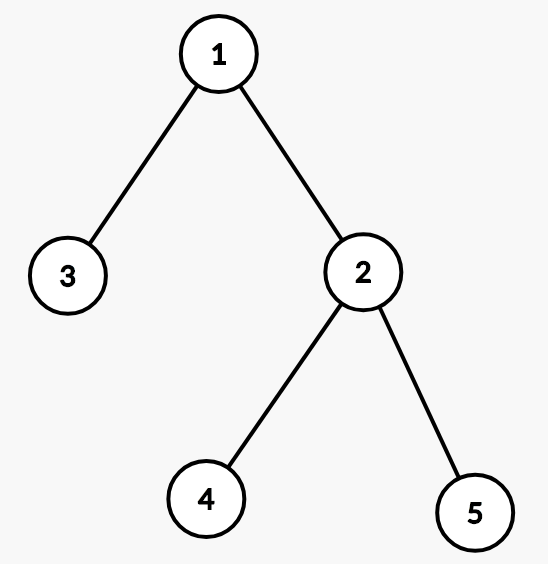
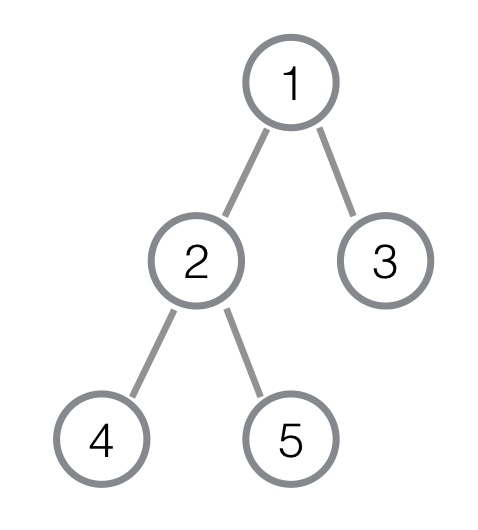
orzjry

diff --git a/day2/polygon/statement/zh-cn.md b/day2/polygon/statement/zh-cn.md
@@ -8,16 +8,16 @@
 
 首先，久莲给出了一棵 $n(n \geq 2)$ 个节点的有根树 $T$，根节点编号为 $1$。定义叶子节点为除了根以外所有度数恰好为 $1$ 的节点。下图是一个树 $T$ 的例子，其中叶子节点集合为 $\{3,4,5\}$。
 
-{{ img('1.png', size = 0.3, align = 'middle', inline = False) }}
+{{ img('1.png', size = 0.6, align = 'middle', inline = False) }}
 
 接着通过这棵树，久莲构造了一个序列 $A$:
 
 - 从根节点开始深度优先遍历整棵树，遍历时按照编号从小到大的顺序来访问孩子，这样可以得到一个树 $T$ 的 DFS 序。
 - 接着按照在 DFS 序中的出现顺序从前往后，久莲把所有叶子节点排成一排得到了一个序列 $A$。
 
-更进一步地，通过序列 $A$，久莲定义了两个叶子节点 $u,v$ 的距离 $d(u,v)$：假设 $u$ 在 $A$ 中是第 $i$ 个元素，$v$ 是第 $j$ 个元素，则 $d(u,v)=\min(|i-j|, |A|-|i-j|)$。其中 $|A|$ 为序列的长度，即 $T$ 的叶子个数。
+更进一步地，通过序列 $A$，久莲定义了两个叶子节点 $u,v$ 的距离 $d(u,v)$：假设 $u$ 在 $A$ 中是第 $i$ 个元素，$v$ 是第 $j$ 个元素，则 $d(u,v)=\min(|i-j|, |A|-|i-j|)$。其中 $|A|$ 为序列的长度，即 $T$ 的叶子个数，$i,j$ 指的是出现的位置，从 $1$ 开始计数。
 
-上面的例子中，序列 $A$ 为 $[3,4,5]$，其中 $d(3,5)=d(3,4)=d(4,5)=1$。
+上面的例子中，序列 $A$ 为 $[4,5,3]$，其中 $d(3,5)=d(3,4)=d(4,5)=1$，$3,4,5$ 的出现位置分别为 $3,1,2$。
 
 最后，久莲给出了一个参数 $K$，利用这棵有根树 $T$ 和序列$A$，我们可以构造一张 $n$ 个点的**无重边无自环**的无向图 $G$：两个不同的点 $u,v$ 之间有边当且仅当它们满足下列条件中的至少一个：
 
@@ -26,7 +26,7 @@
 
 当 $K = 1$ 或 $2$ 时，上面的例子得到的图 $G$ 都如下图所示：
 
-{{ img('2.png', size = 0.3, align = 'middle', inline = False) }}
+{{ img('2.png', size = 0.6, align = 'middle', inline = False) }}
 
 现在久莲想让你来计算一下 $G$ 中不同的哈密尔顿回路数量有多少条，答案可能很大，请对 $998244353$ 取模后输出。
 
@@ -57,24 +57,6 @@
 {{ self.title_sample_description() }}
 
 该样例和题面中的例子完全相同。两条哈密尔顿回路经过节点的顺序分别为 $(1,2,4,5,3)$ 和 $(1,2,5,4,3)$。
-
-{{ s('sample', 2) }}
-
-{{ self.sample_file() }}
-
-这个样例满足 $n \leq 15$。
-
-{{ s('sample', 3) }}
-
-{{ self.sample_file() }}
-
-这个样例满足 $K = 1$
-
-{{ s('sample', 4) }}
-
-{{ self.sample_file() }}
-
-这个样例是极限数据。
 
 {{ s('subtasks') }}
 
